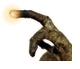
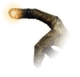
diag: +no-DOF, no-toon, no-ramp, unlit tiles; E.T. cursor fades out smoothly
Claude-Session: https://claude.ai/code/session_01X7LRP8XDzqFJ44QETRJtyd

diff --git a/packages/nouns-webapp/src/miniapps/world2/Game.ts b/packages/nouns-webapp/src/miniapps/world2/Game.ts
@@ -495,13 +495,69 @@ export class Game {
         if (x.side === THREE.DoubleSide) toonMats.push(x);
       }
     });
+    // Meshes whose material came from toonify(): remember both versions
+    const swaps: {
+      mesh: THREE.Mesh;
+      toon: THREE.Material | THREE.Material[];
+      pbr: THREE.Material | THREE.Material[];
+    }[] = [];
+    const ramps = new Map<THREE.MeshToonMaterial, THREE.Texture | null>();
+    const unlit: {
+      mesh: THREE.Mesh;
+      orig: THREE.Material | THREE.Material[];
+      basic: THREE.Material[];
+    }[] = [];
+    g.scene.traverse(o => {
+      const mesh = o as THREE.Mesh;
+      if (!mesh.isMesh) return;
+      const list = Array.isArray(mesh.material) ? mesh.material : [mesh.material];
+      for (const m of list) {
+        const tm = m as THREE.MeshToonMaterial;
+        if (tm.isMeshToonMaterial === true) ramps.set(tm, tm.gradientMap);
+      }
+      unlit.push({
+        mesh,
+        orig: mesh.material,
+        basic: list.map(m => {
+          const sm = m as THREE.MeshStandardMaterial;
+          return new THREE.MeshBasicMaterial({
+            map: sm.map ?? null,
+            color: sm.color?.clone() ?? new THREE.Color(0xffffff),
+            vertexColors: sm.vertexColors,
+            side: sm.side,
+            transparent: sm.transparent,
+            alphaTest: sm.alphaTest,
+          });
+        }),
+      });
+      if (!list.some(m => m.userData.toonSrc !== undefined)) return;
+      const pbr = list.map(m => (m.userData.toonSrc as THREE.Material | undefined) ?? m);
+      swaps.push({ mesh, toon: mesh.material, pbr: Array.isArray(mesh.material) ? pbr : pbr[0]! });
+    });
+    const dof = this.nature?.cinematic?.pass ?? null;
     const set = (o: {
       ink: boolean;
       grade: boolean;
       raw: boolean;
       shadows: boolean;
       front: boolean;
+      pbr?: boolean;
+      noRamp?: boolean;
+      noDof?: boolean;
+      unlit?: boolean;
     }) => {
+      for (const sw of swaps) sw.mesh.material = o.pbr === true ? sw.pbr : sw.toon;
+      if (o.unlit === true)
+        for (const u of unlit) u.mesh.material = Array.isArray(u.orig) ? u.basic : u.basic[0]!;
+      else for (const u of unlit) if (o.pbr !== true) u.mesh.material = u.orig;
+      for (const [m, tex] of ramps) {
+        const want = o.noRamp === true ? null : tex;
+        if (m.gradientMap !== want) {
+          m.gradientMap = want;
+          m.needsUpdate = true;
+        }
+      }
+      if (dof) dof.enabled = o.noDof !== true;
       if (g.inkPass) g.inkPass.enabled = o.ink;
       if (g.gradePass) g.gradePass.enabled = o.grade;
       g.rawRender = o.raw;
@@ -521,7 +577,7 @@ export class Game {
       }
     };
     const base = { ink: true, grade: true, raw: false, shadows: true, front: false };
-    const configs: [string, typeof base][] = [
+    const configs: [string, Parameters<typeof set>[0]][] = [
       ['A baseline', base],
       ['B ink off', { ...base, ink: false }],
       ['C grade off', { ...base, grade: false }],
@@ -530,6 +586,10 @@ export class Game {
       ['F shadows off', { ...base, shadows: false }],
       ['G single-sided', { ...base, front: true }],
       ['H single-sided + no shadows', { ...base, front: true, shadows: false }],
+      ['I no depth-of-field', { ...base, noDof: true }],
+      ['J no toon (original materials)', { ...base, pbr: true }],
+      ['K toon, no light-band texture', { ...base, noRamp: true }],
+      ['L unlit (texture colours only)', { ...base, unlit: true }],
     ];
     const out: { label: string; url: string }[] = [];
     for (const [label, c] of configs) {
@@ -539,6 +599,7 @@ export class Game {
       out.push({ label, url: canvas.toDataURL('image/jpeg', 0.72) });
     }
     set(base);
+    for (const u of unlit) for (const m of u.basic) m.dispose();
     return out;
   }
 

diff --git a/packages/nouns-webapp/src/components/NounOS/styles.ts b/packages/nouns-webapp/src/components/NounOS/styles.ts
@@ -10,9 +10,9 @@ export const NOS_CSS = `
   position:fixed;inset:0;overflow:hidden;background:var(--ink);color:var(--paper);z-index:1;
   --glass:rgba(20,21,25,.74);--glass-hi:rgba(255,255,255,.07);--glass-edge:transparent;--r:18px;
   font-weight:500;-webkit-font-smoothing:auto}
-.nos-root,.nos-root *{cursor:url('/cursor-et-idle.png') 12 14,auto}
+.nos-root,.nos-root *{cursor:url('/cursor-et-idle.png') 13 13,auto}
 .nos-root a,.nos-root a *,.nos-root button,.nos-root button *,.nos-root [role=button],.nos-root label,.nos-root select,
-.nos-root summary{cursor:url('/cursor-et-hot.png') 12 14,pointer !important}
+.nos-root summary{cursor:url('/cursor-et-hot.png') 13 13,pointer !important}
 .nos-root input,.nos-root textarea,.nos-root [contenteditable=true]{cursor:text !important}
 .nos-root canvas{cursor:inherit}
 .nos-root::after{content:'';position:absolute;inset:0;pointer-events:none;z-index:20;background-image:${GRAIN};
